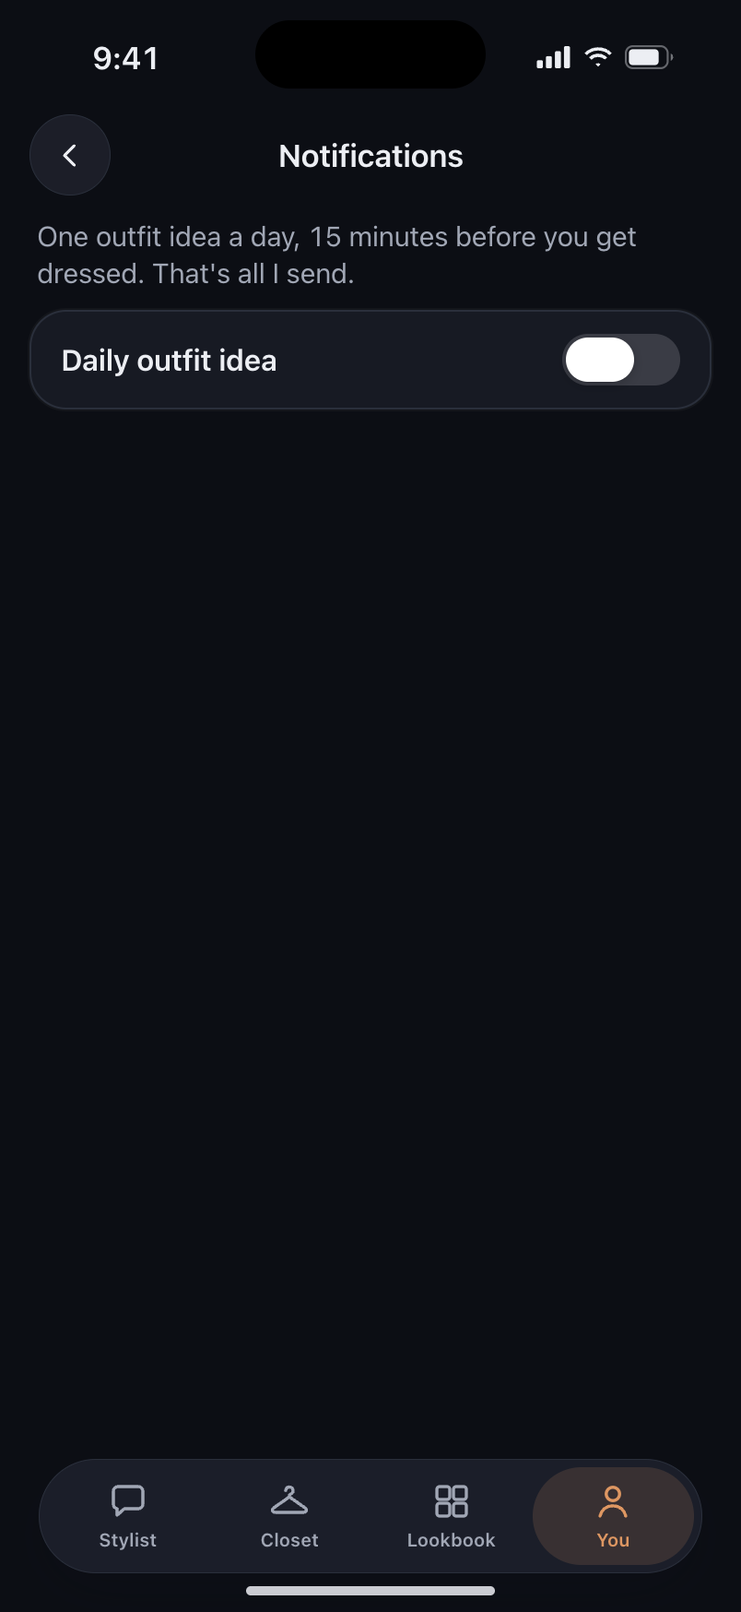
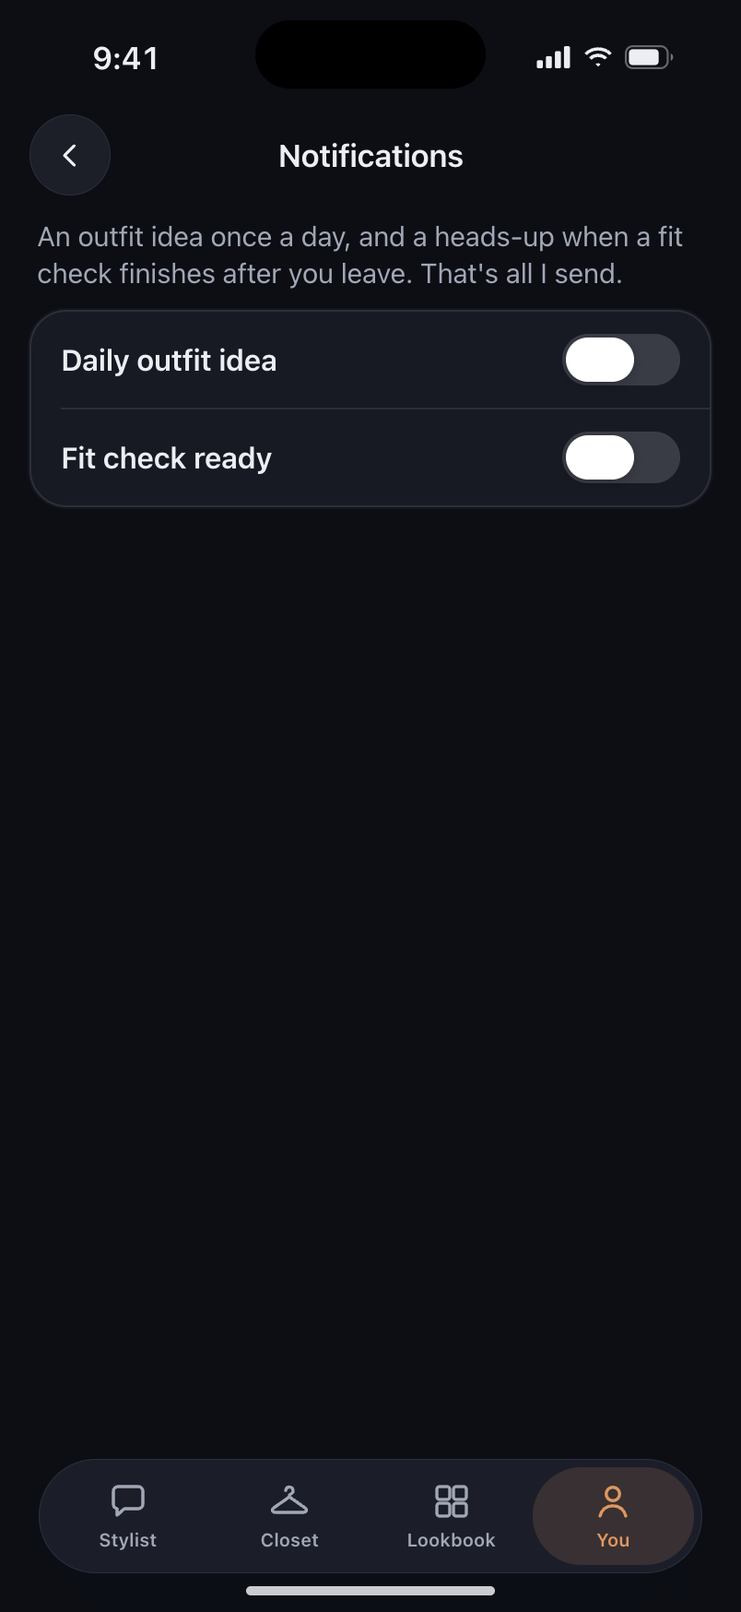
T53 design round 3: one nudge on the lock screen, Fit check ready (NT6) as phone 17, NT3's new header and third row; open questions recorded as settled

diff --git a/tasks/T53/design.html b/tasks/T53/design.html
@@ -620,7 +620,7 @@ h1.board-title em{font-style:normal;font-stretch:72%;font-weight:500;color:var(-
       <figcaption><b>Kit's ask · catch-up for earlier testers <small>PHONE 6</small></b><span>A tester who finished setup on the first TestFlight build, before notifications existed, gets the same card once, the next time Stylist opens, if Apple's prompt was never shown. It posts at the end of today's thread (anything else from today sits above it). Same answers as phones 2–5.</span></figcaption>
     </figure>
 
-    <!-- 7 · The daily nudge on the lock screen (all four lines, for review) -->
+    <!-- 7 · The daily nudge on the lock screen (one; the other lines are listed in the caption) -->
     <figure class="shot">
       <div class="phone fixed" data-status="dark" data-home="dark">
         <div class="screen lock">
@@ -630,9 +630,6 @@ h1.board-title em{font-style:normal;font-stretch:72%;font-weight:500;color:var(-
           </div>
           <div class="t53-lockstack">
             <div class="notif"><span class="nic"><span>K</span></span><div><div class="nh"><b>Kitted</b><span>now</span></div><p>Today: navy overshirt, grey tee, khaki chinos, white sneakers.</p></div></div>
-            <div class="notif"><span class="nic"><span>K</span></span><div><div class="nh"><b>Kitted</b><span>now</span></div><p>Today's outfit idea is ready.</p></div></div>
-            <div class="notif"><span class="nic"><span>K</span></span><div><div class="nh"><b>Kitted</b><span>now</span></div><p>Your closet's big enough now: here's today's idea.</p></div></div>
-            <div class="notif"><span class="nic"><span>K</span></span><div><div class="nh"><b>Kitted</b><span>now</span></div><p>Check today's fit. Each one teaches me your closet.</p></div></div>
           </div>
           <div style="position:absolute;left:44px;right:44px;bottom:44px;display:flex;justify-content:space-between">
             <span class="circ glass" style="width:54.5px;height:54.5px"><svg class="ic s"><use href="#i-flash"/></svg></span>
@@ -640,7 +637,7 @@ h1.board-title em{font-style:normal;font-stretch:72%;font-weight:500;color:var(-
           </div>
         </div>
       </div>
-      <figcaption><b>The daily nudge · its four lines <small>PHONE 7</small></b><span>Shown together for review only: he gets one a day, 15 minutes before his get-dressed time, with the default sound. iOS draws it; the header is the app name, there's no title. Top to bottom: the next nudge once Kit can suggest outfits (it names the pieces on that day's morning card); a later queued day; the first day Kit can suggest (once ever); and every day before Kit can suggest. A tap opens Stylist at today's card. Always dark here (a preview of iOS).</span></figcaption>
+      <figcaption><b>The daily nudge <small>PHONE 7</small></b><span>At most one a day, 15 minutes before his get-dressed time (7:45 for 8:00), with the default sound. iOS draws it: the header is the app name, there's no title. Shown: the next nudge once Kit can suggest outfits; it names the pieces on that day's morning card. A tap opens Stylist at today's card. Always dark here (a preview of iOS).</span><span><b style="font-size:12.5px">The other lines it can carry instead (one per day, never together):</b><br>"Today's outfit idea is ready." · a later queued day, once Kit can suggest.<br>"Your closet's big enough now: here's today's idea." · the first day Kit can suggest, once ever.<br>"Check today's fit. Each one teaches me your closet." · every day before Kit can suggest.</span></figcaption>
     </figure>
 
     <!-- 8 · You → Notifications, on -->
@@ -650,16 +647,17 @@ h1.board-title em{font-style:normal;font-stretch:72%;font-weight:500;color:var(-
           <div class="t53-nav"><span class="back"><svg class="ic s"><use href="#i-back"/></svg></span><div class="t">Notifications</div></div>
           <div class="t53-set">
             <div class="t53-sec">
-              <div class="hd">One outfit idea a day, 15 minutes before you get dressed. That's all I send.</div>
+              <div class="hd">An outfit idea once a day, and a heads-up when a fit check finishes after you leave. That's all I send.</div>
               <div class="t53-rows">
                 <div class="t53-row"><span class="ti">Daily outfit idea</span><span class="t53-sw on"></span></div>
                 <div class="t53-row"><span class="ti">I get dressed at</span><span class="val">8:00 am<svg class="chev"><use href="#t53-down"/></svg></span></div>
+                <div class="t53-row"><span class="ti">Fit check ready</span><span class="t53-sw on"></span></div>
               </div>
             </div>
           </div>
         </div>
       </div>
-      <figcaption><b>You → Notifications · on <small>PHONE 8</small></b><span>From the Notifications row on You. One switch and the time he gets dressed; tapping the time opens the same menu as phone 2 and reschedules at once. No Fit check ready or Trial ending rows in the beta.</span></figcaption>
+      <figcaption><b>You → Notifications · on <small>PHONE 8</small></b><span>From the Notifications row on You. The daily idea's switch, the time he gets dressed (tapping it opens the time menu and reschedules at once), and the Fit check ready switch, on by default once notifications are allowed. No Trial ending row.</span></figcaption>
     </figure>
 
     <!-- 9 · You → Notifications, off -->
@@ -669,15 +667,16 @@ h1.board-title em{font-style:normal;font-stretch:72%;font-weight:500;color:var(-
           <div class="t53-nav"><span class="back"><svg class="ic s"><use href="#i-back"/></svg></span><div class="t">Notifications</div></div>
           <div class="t53-set">
             <div class="t53-sec">
-              <div class="hd">One outfit idea a day, 15 minutes before you get dressed. That's all I send.</div>
+              <div class="hd">An outfit idea once a day, and a heads-up when a fit check finishes after you leave. That's all I send.</div>
               <div class="t53-rows">
                 <div class="t53-row"><span class="ti">Daily outfit idea</span><span class="t53-sw"></span></div>
+                <div class="t53-row"><span class="ti">Fit check ready</span><span class="t53-sw"></span></div>
               </div>
             </div>
           </div>
         </div>
       </div>
-      <figcaption><b>You → Notifications · off <small>PHONE 9</small></b><span>After No thanks, or he switched it off: everything scheduled is cancelled and the time row hides (his time is kept). Switching on when Apple's prompt was never shown asks iOS first (phone 3's alert, over this page); Don't Allow leaves the switch off.</span></figcaption>
+      <figcaption><b>You → Notifications · never asked, or off <small>PHONE 9</small></b><span>Before he's ever said yes (before Kit's ask, after No thanks on it, after "Delete all my data"), and while the daily ideas are paused after a week away: the daily switch is off and the time row hides (his time is kept). Fit check ready is off too until notifications are allowed. Turning either on when Apple's prompt was never shown asks iOS first (phone 3's alert, over this page); Don't Allow leaves it off. If he only switched the daily idea off, Fit check ready stays on.</span></figcaption>
     </figure>
 
     <!-- 10 · You → Notifications, iOS has them off -->
@@ -688,16 +687,17 @@ h1.board-title em{font-style:normal;font-stretch:72%;font-weight:500;color:var(-
           <div class="t53-set">
             <div class="t53-off"><p>Notifications are off for Kitted.</p><span class="btn">Open Settings</span></div>
             <div class="t53-sec">
-              <div class="hd">One outfit idea a day, 15 minutes before you get dressed. That's all I send.</div>
+              <div class="hd">An outfit idea once a day, and a heads-up when a fit check finishes after you leave. That's all I send.</div>
               <div class="t53-rows t53-dis">
                 <div class="t53-row"><span class="ti">Daily outfit idea</span><span class="t53-sw on"></span></div>
                 <div class="t53-row"><span class="ti">I get dressed at</span><span class="val">8:00 am<svg class="chev"><use href="#t53-down"/></svg></span></div>
+                <div class="t53-row"><span class="ti">Fit check ready</span><span class="t53-sw on"></span></div>
               </div>
             </div>
           </div>
         </div>
       </div>
-      <figcaption><b>You → Notifications · off in iOS <small>PHONE 10</small></b><span>He tapped Don't Allow, or later turned Kitted's notifications off in iOS Settings. The card on top says so and Open Settings goes to Kitted's page there; the switch and time are greyed out and can't be changed, and nothing is scheduled. Coming back with them on clears the card and schedules.</span></figcaption>
+      <figcaption><b>You → Notifications · off in iOS <small>PHONE 10</small></b><span>He tapped Don't Allow, or later turned Kitted's notifications off in iOS Settings. The card on top says so and Open Settings goes to Kitted's page there; both switches and the time are greyed out (showing their saved values) and can't be changed, and nothing is scheduled or sent. Coming back with them on clears the card and schedules.</span></figcaption>
     </figure>
 
     <!-- 11 · The comeback question -->
@@ -810,18 +810,39 @@ h1.board-title em{font-style:normal;font-stretch:72%;font-weight:500;color:var(-
         <div class="screen">
           <div class="t53-nav"><span class="back"><svg class="ic s"><use href="#i-back"/></svg></span><div class="t">Notifications</div></div>
           <div class="t53-set" style="top:106px">
-            <div class="t53-off" style="margin-top:-330px"><p>Notifications are off for Kitted.</p><span class="btn">Open Settings</span></div>
+            <div class="t53-off" style="margin-top:-555px"><p>Notifications are off for Kitted.</p><span class="btn">Open Settings</span></div>
             <div class="t53-sec">
-              <div class="hd">One outfit idea a day, 15 minutes before you get dressed. That's all I send.</div>
+              <div class="hd">An outfit idea once a day, and a heads-up when a fit check finishes after you leave. That's all I send.</div>
               <div class="t53-rows t53-dis">
                 <div class="t53-row"><span class="ti">Daily outfit idea</span><span class="t53-sw on"></span></div>
                 <div class="t53-row stack"><span class="ti">I get dressed at</span><span class="val">8:00 am<svg class="chev"><use href="#t53-down"/></svg></span></div>
+                <div class="t53-row"><span class="ti">Fit check ready</span><span class="t53-sw on"></span></div>
               </div>
             </div>
           </div>
         </div>
       </div>
-      <figcaption><b>Largest text · You → Notifications <small>PHONE 16</small></b><span>Phone 10 at AX5, its busiest state, scrolled to the end: the card's line and Open Settings come first (scrolled off above here), then the header and the rows. The time row stacks (title, then the time under it); the switch stays beside its title. Nothing truncates.</span></figcaption>
+      <figcaption><b>Largest text · You → Notifications <small>PHONE 16</small></b><span>Phone 10 at AX5, its busiest state, scrolled to the end: the card's line and Open Settings come first (scrolled off above here), then the header and the rows. The time row stacks (title, then the time under it); each switch stays beside its wrapped title. Nothing truncates.</span></figcaption>
+    </figure>
+
+    <!-- 17 · Fit check ready on the lock screen (NT6) -->
+    <figure class="shot">
+      <div class="phone fixed" data-status="dark" data-home="dark">
+        <div class="screen lock">
+          <div style="display:flex;flex-direction:column;align-items:center;padding-top:80.5px;gap:2.5px;color:#fff">
+            <div style="font-size:17px;font-weight:600;opacity:.85">Tuesday, November 10</div>
+            <div class="locktime">7:53</div>
+          </div>
+          <div class="t53-lockstack">
+            <div class="notif"><span class="nic"><span>K</span></span><div><div class="nh"><b>Kitted</b><span>now</span></div><p>Your fit check is ready. 2 quick fixes inside.</p></div></div>
+          </div>
+          <div style="position:absolute;left:44px;right:44px;bottom:44px;display:flex;justify-content:space-between">
+            <span class="circ glass" style="width:54.5px;height:54.5px"><svg class="ic s"><use href="#i-flash"/></svg></span>
+            <span class="circ glass" style="width:54.5px;height:54.5px"><svg class="ic s"><use href="#i-camera"/></svg></span>
+          </div>
+        </div>
+      </div>
+      <figcaption><b>Fit check ready <small>PHONE 17</small></b><span>Only when he left the app while a fit check was being scored, and the score came back in the background (iOS gives the app about 30 s; a check takes about 8 s). One per check, never the score on the lock screen, default sound, no title. A tap opens Stylist at that check's card. Not sent if he's still in the app, the check failed, wasn't rated or was offline, or the Fit check ready switch is off. It doesn't count toward the one daily nudge. Always dark here (a preview of iOS).</span><span><b style="font-size:12.5px">Its other lines, by the number of fixes:</b><br>"Your fit check is ready. 1 quick fix inside." · one fix.<br>"Your fit check is ready." · no fixes.</span></figcaption>
     </figure>
 
   </div>

diff --git a/tasks/T53/DESIGN.md b/tasks/T53/DESIGN.md
@@ -2,19 +2,23 @@
 
 <!-- Leave this comment. Only the coordinator replaces it with the approval line, after the founder's yes in chat. -->
 
-**From:** `plan.md` → T53 · **Spec:** `specs/notifications.md` → NT1 (except NT1.8–NT1.10, T57), NT2, NT3, NT4, NT5 · **Frames:** `tasks/T53/design.html` (open with `preview_start` name `mockups`, then `http://127.0.0.1:8095/tasks/T53/design.html`) · **PNGs:** `tasks/T53/design/`
+**From:** `plan.md` → T53 · **Spec:** `specs/notifications.md` → NT1 (except NT1.8–NT1.10, T57), NT2, NT3, NT4, NT5, NT6 · **Frames:** `tasks/T53/design.html` (open with `preview_start` name `mockups`, then `http://127.0.0.1:8095/tasks/T53/design.html`) · **PNGs:** `tasks/T53/design/`
 
 Approved, this file is the contract: the planner copies the UI inventory from it word for word, and the critic holds the build to it. It changes only with the founder's yes.
 
 ## What he sees
-After his first scored fit, Kit asks in the chat what time he usually gets dressed, with the time already filled in and two buttons. If he says yes and allows it in Apple's prompt, he gets one notification a day, 15 minutes before that time, and You → Notifications is where he changes the time or turns it off. If he doesn't open the app for a week, the nudges stop, and the next time he opens it Kit asks once whether he wants them back.
+After his first scored fit, Kit asks in the chat what time he usually gets dressed, with the time already filled in and two buttons. If he says yes and allows it in Apple's prompt, he gets at most one nudge a day, 15 minutes before that time, and You → Notifications is where he changes the time or turns things off. If he leaves the app while a fit check is still being scored, one more notification tells him it's ready. If he doesn't open the app for a week, the nudges stop, and the next time he opens it Kit asks once whether he wants them back.
 
 ## Where it lives
 - **Kit's ask and the comeback question** are Kit's lines in the Stylist thread (`StylistMessage` with a `footer`, as the ask card is built today in `features/finish/NotifyAskCard.tsx`). Around them: the Stylist header ("Stylist", no subtitle in the beta: `quotaLine` returns null for the beta tier), the "Ask Kit…" bar (`StylistBar`, the tab-bar accessory) and the tab bar. There's no Back or X: they're cards in the thread, answered in place. Once answered, each card stays as its one line for good.
 - **Apple's prompt** is iOS's own alert over whatever screen asked for it (Stylist, or You → Notifications).
-- **The nudge** is drawn by iOS (lock screen, Notification Center, banner). A tap opens the Stylist tab at today's card. That card is built by the morning lane (T55) and isn't redrawn here.
+- **The nudge and Fit check ready** are drawn by iOS (lock screen, Notification Center, banner). A tap on the nudge opens the Stylist tab at today's card (built by the morning lane, T55, not redrawn here); a tap on Fit check ready opens Stylist at that check's card (as built, not redrawn).
 - **You → Notifications** is a page pushed from the `Notifications` row on You (`app/(tabs)/you/notifications.tsx`; the row itself belongs to T34, `specs/setup-and-you.md` SY1). It has the native header "Notifications" and the system Back button (VoiceOver "You"). The tab bar stays, with You selected. He leaves with Back or a swipe from the left edge.
-- **What the switch shows** (all of phones 8–10): it shows on only when `notify.idea` is saved on **and** iOS allows notifications for Kitted. While Apple's prompt has never been shown (before Kit's ask, after `No thanks` on it, or after "Delete all my data"), it shows off and the time row is hidden, whatever the stored value: that's phone 9. The one exception is phone 10 (iOS has them off), where the greyed switch shows its saved value. *Change from today:* `prefs.ts` reads an unset `notify.idea` as on (`parseSwitch`, "Unset means on"), which would show phone 8 to someone who was never asked.
+- **What the switches show** (phones 8–10 and 16):
+  - **Daily outfit idea** shows on only when all three hold: `notify.idea` is saved on, iOS allows notifications for Kitted, and the nudges aren't paused waiting for the comeback answer (settled, Q1). Otherwise it shows off and the time row is hidden: that's phone 9. **`notify.idea` is the source of truth, and unset reads off** for this switch (settled, critic round 2): `Send me ideas`, and the switch turned on, write it on *before* asking iOS, so Don't Allow still leaves phone 10 greyed on and coming back from iOS Settings schedules; `No thanks` (on the ask or the comeback) writes it off; "Delete all my data" clears it, so it reads off again even though iOS keeps its own answer through a wipe.
+  - **Fit check ready** shows on when iOS allows notifications and `notify.ready` isn't saved off ("on by default once notifications are allowed", spec NT3). Before iOS has allowed them, it shows off.
+  - On phone 10 (iOS has them off), both greyed switches show their saved values: `notify.idea` as saved, `notify.ready` on unless saved off.
+  - *Change from today:* `prefs.ts` reads an unset `notify.idea` as on (`parseSwitch`, "Unset means on"), which would show phone 8 to someone who was never asked; for this switch it now reads off.
 
 ## States
 In the order he meets them. The must-not cases, where he sees nothing: **under the under-18 lock** no ask posts, no comeback posts, and nothing is scheduled (NT5.2); **after `No thanks`** Kit never posts the ask again (NT1.7); **after "Delete all my data"** everything scheduled is cancelled and the ask can come again after setup, like a new user (NT5.1). None of these has a frame. The data deletion screens aren't changed by this task.
@@ -60,6 +64,7 @@ Top to bottom, in VoiceOver's reading order (the thread above is as built: his f
 ### Kit's ask · allowed · when: he taps Allow · phone 4 · `design/04-light.png`, `design/04-dark.png`
 - Kit's name + Kit's bubble · "Done. Your first idea lands tomorrow at 7:45 am." (source: spec NT1 "Answers") · the time is the nudge time (his time minus 15 minutes, `ideaTimeLabel` format); "today" instead of "tomorrow" when today's nudge time hasn't passed yet ("Done. Your first idea lands today at 7:45 am.") · VoiceOver: "Kit: Done. Your first idea lands tomorrow at 7:45 am."
 - The time row and both buttons are gone for good. The time and the switch are saved, and the next 7 days are scheduled.
+- **The same line if he turns the daily idea on in You → Notifications first** while the ask is still unanswered (settled, Q8), so a later tap on its No thanks can't undo it.
 - **VoiceOver focus** moves to this line once it shows, so he hears the result (the button he tapped no longer exists). *Change from today:* focus isn't moved.
 - **Motion and haptics:** none. **Dark:** token swap. **Largest text:** the line wraps, as every Kit line does.
 
@@ -75,37 +80,55 @@ Top to bottom, in VoiceOver's reading order (the thread above is as built: his f
 - **Motion, Dark, Largest text:** as phone 1.
 
 ### The daily nudge · when: every day at his nudge time · phone 7 · `design/07-light.png`, `design/07-dark.png` (the same picture: always dark)
-iOS draws this; Kitted writes only the body line. The frame shows all four lines together for review. He gets one a day.
+iOS draws this; Kitted writes only the body line. **At most one a day** (the founder, Nov 9). The frame shows one nudge on the lock screen; the other lines it can carry instead are listed as text in the caption beside it, never drawn together.
 - Header: the app name "Kitted" and the time (iOS's). **No title** (spec NT2).
 - Body, one of:
-  - "Today: navy overshirt, grey tee, khaki chinos, white sneakers." (spec NT2 `Today: {item1}, {item2}, {item3}, {item4}.`, lowercase piece names, as many as the outfit has; here the spec's example) · the next nudge, once Kit can suggest outfits. It names the pieces on that day's morning card.
-  - "Today's outfit idea is ready." (spec) · the later queued days, once Kit can suggest.
-  - "Your closet's big enough now: here's today's idea." (spec) · the first scheduled day on which Kit can suggest, once ever.
-  - "Check today's fit. Each one teaches me your closet." (spec) · every day while Kit can't suggest yet (empty closet, or fewer than two outfits that work).
+  - "Today: navy overshirt, grey tee, khaki chinos, white sneakers." (spec NT2 `Today: {item1}, {item2}, {item3}, {item4}.`, lowercase piece names, as many as the outfit has; here the spec's example) · the next nudge, once Kit can suggest outfits. It names the pieces on that day's morning card. **This is the one drawn**, at 7:45 (for 8:00).
+  - The other three are in the caption only:
+    - "Today's outfit idea is ready." (spec) · the later queued days, once Kit can suggest.
+    - "Your closet's big enough now: here's today's idea." (spec) · the first scheduled day on which Kit can suggest, once ever.
+    - "Check today's fit. Each one teaches me your closet." (spec) · every day while Kit can't suggest yet (empty closet, or fewer than two outfits that work).
 - Default sound. No badge, no image, no actions, no Time Sensitive.
 - VoiceOver: iOS's own ("Kitted, {body}").
 - tap: opens Kitted at the Stylist tab, scrolled to today's card (posted then if it isn't yet). A tap on an older day's nudge opens today's card too.
-- **Change from today:** the lock-screen mockup (`kitted-mockups.html` screen 14) shows three kinds; the beta sends only this one (spec NT2.5).
+- **Change from today:** the lock-screen mockup (`kitted-mockups.html` screen 14) shows three kinds stacked; the beta sends at most one nudge a day plus NT6 (spec NT2.5), and never `Trial ending`.
+
+### Fit check ready · when: he left the app while a fit check was being scored, and the score came back in the background · phone 17 · `design/17-light.png`, `design/17-dark.png` (the same picture: always dark)
+Drawn last (phone 17) so the other phones keep their numbers; in his day it can come at any time after he starts a check.
+- iOS draws it: header "Kitted" and the time (iOS's), **no title**, default sound, no badge, image or actions (spec NT6).
+- Body, one of:
+  - "Your fit check is ready. 2 quick fixes inside." (spec NT6; `en.ts` `push.ready` with n = 2) · **the one drawn**, at 7:53 on the lock screen.
+  - "Your fit check is ready. 1 quick fix inside." (spec; `en.ts` `push.ready` one) · one fix. In the caption.
+  - "Your fit check is ready." (spec, **new in en.ts**: the no-fixes form) · no fixes. In the caption.
+- **Never the score** on the lock screen (NT6.5).
+- VoiceOver: iOS's own ("Kitted, {body}").
+- tap: opens Kitted at the Stylist tab, scrolled to that check's card (NT6.4).
+- **When it's sent:** once per check, only if notifications are allowed and the Fit check ready switch is on, and only when the score arrives while the app is in the background within iOS's extra time (about 30 s). **Not sent** when he's still in the app, when the check failed, was "not rated" or he was offline, or when the extra time runs out first (then the score is in the chat when he opens the app, as today). It doesn't count toward the one nudge a day and never changes the nudge.
+- **Change from today:** the mockup's line ("Your fit check is ready. 2 quick fixes inside.") is kept; the no-fixes form is added.
 
 ### You → Notifications · on · when: he opens Notifications from You, with the switch on and iOS allowing · phone 8 · `design/08-light.png`, `design/08-dark.png`
 Top to bottom, in VoiceOver's reading order:
 - Back · the native stack's back button (iOS 26 glass, chevron only) · VoiceOver: "You", back button (the previous title) · tap: back to You.
 - Title · native header title · "Notifications" (`en.ts` `notifs.title`) · `headline`, system · VoiceOver: header.
-- Header · `Section` `header` · "One outfit idea a day, 15 minutes before you get dressed. That's all I send." (source: spec NT3) · `subheadline` `ink2`, 4 pt side inset, 4 pt under it · VoiceOver: read as text.
+- Header · `Section` `header` · "An outfit idea once a day, and a heads-up when a fit check finishes after you leave. That's all I send." (source: spec NT3) · `subheadline` `ink2`, 4 pt side inset, 4 pt under it · VoiceOver: read as text.
 - Rows · `Section` card (`KCard` radius 20 (`radius.cardSmall`), `surface`, 1 pt `line`, the card shadow in light), 1 pt `RowDivider` inset 16 between rows. Page side gutter 16, 12 pt top padding (`SettingsScroll`).
   - Daily outfit idea · `ToggleRow` · "Daily outfit idea" (source: spec; `en.ts` `notifs.idea`) · title `callout` 600 `ink`, row min 44, padding 12 / 16 · the system `Switch`, track `good` when on · VoiceOver: "Daily outfit idea", switch button, on · tap: off → phone 9 (cancels everything scheduled).
   - I get dressed at · `PickerRow` · "I get dressed at" (source: spec NT3) · title `callout` 600 `ink` (hidden from VoiceOver), value `MorphPicker` inline: "8:00 am" in `subheadline` 500 `ink2` with a `chevronDown` 10 `ink2` · VoiceOver: "I get dressed at, 8:00 am", button · tap: opens the time menu as `PickerRow`'s inline `MorphPicker` does in Settings → Appearance (a `surface` panel that grows down from the value, the same 17 times; not drawn); a pick saves the time and reschedules all 7 at once.
-- No `Fit check ready` row, no `Trial ending` row.
+  - Fit check ready · `ToggleRow` · "Fit check ready" (source: spec NT3; `en.ts` `notifs.ready`) · as the first row (title `callout` 600 `ink`, the system `Switch`, track `good`) · VoiceOver: "Fit check ready", switch button, on · tap: off → `notify.ready` saved off; no Fit check ready notification is sent until it's back on. It sits under the time row (spec order) and doesn't hide when the daily idea is off.
+- No `Trial ending` row.
 - **Motion and haptics:** the switch's own. The time row appears and hides with no animation (as built).
 - **Dark:** token swap; the card loses its shadow and keeps its border.
 - **Largest text:** phone 16.
-- **Change from today:** the header ("That's all I send. No reminders to open the app."), the time row's title ("Time") and its VoiceOver ("Daily outfit idea time, {time}") change; the `Fit check ready` and `Trial ending` rows go.
+- **Change from today:** the header ("That's all I send. No reminders to open the app."), the time row's title ("Time") and its VoiceOver ("Daily outfit idea time, {time}") change; `Fit check ready` stays and moves under the time row; the `Trial ending` row goes.
 
-### You → Notifications · off · when: after No thanks, or he switched it off · phone 9 · `design/09-light.png`, `design/09-dark.png`
+### You → Notifications · never asked, or off · when: before he's ever allowed notifications (before Kit's ask, after `No thanks` on it, after "Delete all my data"), or while the nudges are paused after a week away · phone 9 · `design/09-light.png`, `design/09-dark.png`
 - Back, title, header: as phone 8.
 - Daily outfit idea · `ToggleRow`, off · VoiceOver: "Daily outfit idea", switch button, off · tap: on. If Apple's prompt was never shown, it shows now (phone 3's alert over this page). While the alert is up, the switch flips on at once (feedback within 0.1 s) and is disabled until the answer comes back, as No thanks is on phone 3. Allow → it stays on, the time row shows, all 7 are scheduled (phone 8). Don't Allow → it goes back off and the page becomes phone 10. If iOS already allows: on, and all 7 are scheduled.
-- **The same picture before he was ever asked** (before Kit's ask, after `No thanks` on it, or after "Delete all my data"): the switch off and no time row, whatever is stored (see "What the switch shows" in Where it lives).
-- The time row is hidden while the switch is off (as built). His time is kept.
+- Fit check ready · `ToggleRow`, off (iOS hasn't allowed notifications yet) · VoiceOver: "Fit check ready", switch button, off · tap: on. If Apple's prompt was never shown, it shows now, the same way as the daily switch above: Allow → on (the daily switch stays as it was); Don't Allow → back off, page becomes phone 10.
+- **While paused** (a week away, switch saved on, iOS allowing): the daily switch shows off and the time row is hidden, but Fit check ready shows on. Switching the daily idea on resumes: all 7 are scheduled and an open comeback card becomes its `Back on.` line (phone 13) (settled, Q1).
+- **If he only switched the daily idea off** (iOS allowing): the daily switch is off with no time row, and Fit check ready stays on. Not drawn.
+- The time row is hidden while the daily switch is off (as built). His time is kept.
+- See "What the switches show" in Where it lives.
 
 ### You → Notifications · off in iOS · when: iOS has notifications off for Kitted (he tapped Don't Allow, or turned them off in iOS Settings) · phone 10 · `design/10-light.png`, `design/10-dark.png`
 Top to bottom, in VoiceOver's reading order:
@@ -114,8 +137,8 @@ Top to bottom, in VoiceOver's reading order:
   - "Notifications are off for Kitted." (source: spec NT3; `en.ts` `notifs.off`) · `callout` `ink` · VoiceOver: read as text.
   - Open Settings · `KButton` secondary regular, left-aligned · "Open Settings" (`en.ts` `common.openSettings`) · VoiceOver: "Open Settings", button · tap: Kitted's page in iOS Settings (`Linking.openSettings()`).
 - Header: as phone 8.
-- Rows · the same card, **greyed out**: each row dims itself to `opacity.disabled` (0.4): `ToggleRow` `disabled` as built, and the new `PickerRow` `disabled`. The card, its border and the divider stay at full opacity (one 0.4, never stacked). The switch is disabled and shows its saved value, the time row (shown if the switch is saved on) can't be tapped · VoiceOver: "Daily outfit idea", switch button, on, dimmed; "I get dressed at, 8:00 am", button, dimmed.
-- Nothing is scheduled. Coming back to the app with iOS allowing clears the card, un-greys the rows and schedules (the page re-reads the permission when the app returns to the foreground).
+- Rows · the same card, **greyed out**: each row dims itself to `opacity.disabled` (0.4): `ToggleRow` `disabled` as built, and the new `PickerRow` `disabled`. The card, its border and the divider stay at full opacity (one 0.4, never stacked). Both switches are disabled and show their saved values, the time row (shown if the daily switch is saved on) can't be tapped · VoiceOver: "Daily outfit idea", switch button, on, dimmed; "I get dressed at, 8:00 am", button, dimmed; "Fit check ready", switch button, on, dimmed.
+- Nothing is scheduled or sent. Coming back to the app with iOS allowing clears the card, un-greys the rows and schedules (the page re-reads the permission when the app returns to the foreground).
 - **Dark:** token swap.
 - **Largest text:** phone 16.
 - **Change from today:** the card and the greyed rows are new to this page (the copy deck had them; the page never showed them).
@@ -127,7 +150,7 @@ Top to bottom, in VoiceOver's reading order:
   - Turn them back on · `KButton` primary regular · "Turn them back on" (spec) · VoiceOver: "Turn them back on", button · tap: schedules the next 7 days → phone 13.
   - Change the time · `KButton` secondary regular · "Change the time" (spec) · VoiceOver: "Change the time", button · tap: → phone 12.
   - No thanks · `KButton` secondary regular · "No thanks" (spec) · VoiceOver: "No thanks", button · tap: saves the switch off → phone 14.
-- Posted once per lapse, at the end of today's thread. Until he answers (or switches it on in You → Notifications), nothing is scheduled. Ignored, it stays answerable.
+- Posted once per lapse, at the end of today's thread (settled, Q4), and **not posted while iOS has notifications off** for Kitted (settled, Q3; phone 10 is the way back). Not re-posted on a later day (settled, Q6). Until he answers (or switches it on in You → Notifications), nothing is scheduled. Ignored, it stays answerable.
 - **Motion and haptics:** none. **Dark:** token swap.
 - **Largest text:** as phone 15: the bubble wraps and the three buttons stack full width, in this order.
 - **Change from today:** it replaces the unbuilt "I've sent 3 ideas you didn't open…" card (`unopened.*`).
@@ -157,8 +180,9 @@ Top to bottom, in VoiceOver's reading order:
 
 ### Largest text · You → Notifications (phone 10 at AX5) · phone 16 · `design/16-light.png`, `design/16-dark.png`
 - Scrolled to the end. The off card's line wraps at `callout` AX5 (51 / 61) and Open Settings stretches full width (scrolled off above in the frame).
-- The header wraps at 49 / 59.
-- Daily outfit idea: its title wraps beside the switch (`ToggleRow` keeps the row). I get dressed at: the row stacks, title then the time under it (`PickerRow` at AX sizes, as built).
+- The header wraps at 49 / 59 (about eight lines).
+- Daily outfit idea and Fit check ready: each title wraps beside its switch (`ToggleRow` keeps the row). I get dressed at: the row stacks, title then the time under it (`PickerRow` at AX sizes, as built).
+- The frame is scrolled so the last two lines of the header and all three rows show.
 - The header title is capped at 2x. Nothing truncates.
 
 ## Words
@@ -174,8 +198,11 @@ Every string he reads in this task. No NEW strings: every word is the spec's, an
 - "Today's outfit idea is ready." · spec NT2
 - "Your closet's big enough now: here's today's idea." · spec NT2
 - "Check today's fit. Each one teaches me your closet." · spec NT2
+- "Your fit check is ready. {n} quick fixes inside." / "Your fit check is ready. 1 quick fix inside." · spec NT6; `en.ts` `push.ready` (kept)
+- "Your fit check is ready." · spec NT6 (no fixes; a new key in the copy deck, the spec's words)
 - "Notifications" · `en.ts` `notifs.title`
-- "One outfit idea a day, 15 minutes before you get dressed. That's all I send." · spec NT3 (replaces `notifs.header`)
+- "An outfit idea once a day, and a heads-up when a fit check finishes after you leave. That's all I send." · spec NT3 (replaces `notifs.header`)
+- "Fit check ready" · spec NT3; `en.ts` `notifs.ready` (kept)
 - "Daily outfit idea" · spec; `en.ts` `notifs.idea`
 - "Notifications are off for Kitted." · spec; `en.ts` `notifs.off`
 - "Open Settings" · spec; `en.ts` `common.openSettings`
@@ -187,7 +214,7 @@ Every string he reads in this task. No NEW strings: every word is the spec's, an
 - "Done. You can turn them on in You → Notifications." · spec NT4
 - Unchanged chrome in the frames: "Kit" (`common.who`), "Stylist" (`stylist.title`), "Ask Kit…" (`composer.placeholder`), the tab names (`tab.*`), the day stamp (`fmt.stampRecent`), the closet card (`plan.*`), the times (`ideaTimeLabel`, `fmt.am` / `fmt.pm`).
 - Apple's alert: Apple's words, not ours.
-- Removed with no replacement: `notifs.ready` "Fit check ready", `notifs.trial` "Trial ending", `push.trial`, `push.ready` (not sent in the beta; spec "Touches").
+- Removed with no replacement: `notifs.trial` "Trial ending" and `push.trial` (spec "Touches"). `notifs.ready` and `push.ready` stay (NT6).
 
 ## New parts
 - **`PickerRow` `disabled`** (`features/settings/SettingsList.tsx`): the time row greyed out on phone 10 (opacity 0.4, not tappable, VoiceOver "dimmed"). `ToggleRow` already has `disabled`; `PickerRow` doesn't.
@@ -195,12 +222,15 @@ Every string he reads in this task. No NEW strings: every word is the spec's, an
 Nothing else: the ask and the comeback are `StylistMessage` with a footer, the time is `MorphPicker`, the page is `SettingsScroll` / `Section` / `ToggleRow` / `PickerRow`.
 
 ## Checked by the designer
-- **HIG:** *Notifications* and *Privacy → Requesting permission*: Kit's card says what he gets and when before Apple's prompt, the prompt shows only on his tap, never at launch, and a refusal is respected with the way back in You → Notifications (pass). *Toggles*: a switch for on/off, its row title says what it controls (pass). *Pop-up buttons / menus*: one choice from 17 options in a menu with the current one checked (pass). *Disabled controls* are dimmed and say so to VoiceOver (pass). One notification a day, no marketing (App Review 4.5.4, pass).
+- **HIG:** *Notifications* and *Privacy → Requesting permission*: Kit's card says what he gets and when before Apple's prompt, the prompt shows only on his tap, never at launch, and a refusal is respected with the way back in You → Notifications (pass). *Toggles*: a switch for on/off, its row title says what it controls (pass). *Pop-up buttons / menus*: one choice from 17 options in a menu with the current one checked (pass). *Disabled controls* are dimmed and say so to VoiceOver (pass). At most one nudge a day plus a one-off "ready" only after he left mid-check, both his to switch off, no marketing (App Review 4.5.4, pass). Fit check ready never shows the score on the lock screen (privacy, pass).
 - **§C14:** tab bar unchanged, no tab used as an action (pass) · "settings behind a gear": not applicable, `specs/setup-and-you.md` moved Settings into You (founder) · 44 pt targets: buttons 36 visual / 44 hit, the time capsule 32 / 44 with its hitSlop, rows 44+ (pass) · contrast 4.5:1: the label `ink2` on `bg` 5.87 / 8.00, the time `ink` on `surface2` 15.43 / 13.20, the stamp `ink3` on `bg` 4.91 / 6.51, the row value `ink2` on `surface` 6.46 / 7.21 (pass; the dimmed rows on phone 10 are disabled controls, which WCAG exempts) · Dynamic Type to AX5 (phones 15–16, pass) · feedback within 0.1 s: the spinner on Send me ideas (pass) · Back on the pushed page (pass) · notifications utility-only, never "we miss you", asked in context (pass).
 - **Design system:** only 03 / `tokens.ts` tokens and existing components, plus `PickerRow` `disabled` above. Copper appears only on the active tab (03 §1.1: it marks nothing here).
 - **Hard lines:** no face, body or photo in any frame (no photos at all); no emoji, ranks, streaks, day counts or guilt in any word; Kit is named as Kit; nothing leaves the phone.
 
 ## Open questions for the founder
+All settled by the founder (Nov 9, round 3). Each answer below is the design; the question is kept for the record.
+- **Answers:** Q1 the switch shows off while paused, and switching it on resumes · Q2 T53 merges after T34, so "You → Notifications" is true on testers' phones · Q3 no comeback post while iOS has notifications off · Q4 at the end of today's thread · Q5 keep both cards on screen · Q6 not re-posted · Q7 no message; retry on the next open, foreground or background · Q8 the ask card turns into its done line · Q9 show the time row (no auto-open) · Q10 keep as built · the critic's round 2 polish: `notify.idea` unset reads off for the daily switch, and the paused condition is in "What the switches show".
+
 1. **During a lapse, what does the switch in You → Notifications show?** The spec says turning it "back on" there resumes, but the switch is still saved on, so it would already look on. · recommended: **it shows off while paused** (until he answers the comeback), so the page tells the truth and switching it on resumes (and turns the comeback card into its `Back on.` line). · other: it shows on, and simply opening the page while it's on resumes.
 2. **The words say "You → Notifications" but today's build has it under You → Settings → Notifications** until T34 (You becomes the settings home) merges. · recommended: **T53 merges after T34**, so the words are true on the testers' phones. · other: ship T53 first and accept a wrong path for one build.
 3. **The comeback question when iOS has notifications off.** The spec asks it whenever the switch is on, but Turn them back on can't schedule anything then. · recommended: **don't post the comeback while iOS has them off**; phone 10's card is the way back. · other: post it, and Turn them back on opens phone 10.
@@ -218,7 +248,8 @@ Nothing else: the ask and the comeback are `StylistMessage` with a footer, the t
 - Today's card that a nudge opens: the morning lane (T55), unchanged here.
 - The `Notifications` row on You and where it sits: T34 (`specs/setup-and-you.md` SY1).
 - "Delete all my data" and the under-18 lock screens: unchanged; this task only cancels and clears behind them (NT5.1, NT5.2).
-- `Fit check ready` and any server push: launch (`specs.md` F13).
+- Any server push (none in the beta). `Fit check ready` is in scope now (NT6, phone 17).
+- The native code that asks iOS for extra background time while a check finishes: not visible, no design.
 
 ## Design check (critic)
 Written by the critic, round by round.
@@ -271,4 +302,5 @@ Read: the round 2 diff (c8295e09: DESIGN.md, `design.html`), and every re-shot P
 **Suggestions:** none new.
 
 ## Changes
+- **Round 3** · from the founder: "4 notifications at the same time is excessive. a max of one notification per day, unless they leave while the rating is processing. then we can tell them to check their rating out or someting." (spec NT3 and NT6 changed with his yes, 8bf79970, log #410) · phone 7 redrawn as one nudge on the lock screen, with the other three lines listed in its caption as text; phone 17 added: Fit check ready on the lock screen ("Your fit check is ready. 2 quick fixes inside."), its 1-fix and no-fix lines in the caption, a tap opening that check's card; phones 8, 9, 10 and 16 take NT3's new header and the third row, Fit check ready (phone 9 now draws the never-asked state, both switches off; phone 16 re-scrolled to show all three rows); "What the switches show" rewritten (the paused condition from Q1, `notify.idea` unset reads off, the Fit check ready rule); open questions 1–10 recorded as settled; Words updated (new header, `notifs.ready` and `push.ready` kept, the no-fix line). PNGs re-shot: 07, 08, 09, 10, 16, 17, light and dark.
 - **Round 2** · from the critic (round 1) · blocker: added "What the switch shows" (on only when saved on and iOS allows; off with no time row while Apple's prompt has never been shown, which looks like phone 9) and the matching line on phone 9. Polish: the button gaps written as 12 pt (time row to buttons) and 16 pt (wrapped rows), and the frames redrawn with 44 pt button boxes (phones 1, 2, 3, 6, 11, 12, 15); the footer's spacing corrected to 10 pt and Kit's name to 16 pt under the card; phone 3's spinner button at Send me ideas' real width (135.5 pt); phone 10 dims each row once and keeps the card at full opacity (frames 10 and 16 redrawn); phone 2's sliver of title noted as as-built; phone 15's `fullWidth` at AX sizes named as a change from today, for the ask and the comeback; the settings page's menu described (as in Settings → Appearance); phone 9's switch while Apple's prompt is up. Open questions 8–10 added from the critic's suggestions. PNGs re-shot: 01, 02, 03, 06, 10, 11, 12, 15, 16, light and dark.
